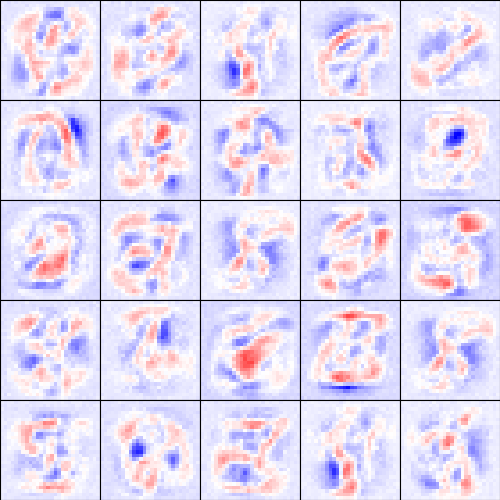
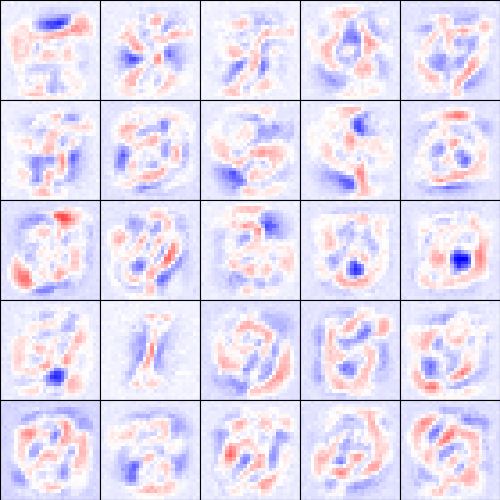
3/5 functions for 4.2 done

diff --git a/lab_4/lab4_code/dbn.py b/lab_4/lab4_code/dbn.py
@@ -63,19 +63,37 @@ class DeepBeliefNet():
         
         n_samples = true_img.shape[0]
         
-        vis = true_img # visible layer gets the image data
+        #vis = true_img # visible layer gets the image data
         
-        lbl = np.ones(true_lbl.shape)/10. # start the net by telling you know nothing about labels        
+        #lbl = np.ones(true_lbl.shape)/10. # start the net by telling you know nothing about labels        
         
         # [TODO TASK 4.2] fix the image data in the visible layer and drive the network bottom to top. In the top RBM, run alternating Gibbs sampling \
         # and read out the labels (replace pass below and 'predicted_lbl' to your predicted labels).
         # NOTE : inferring entire train/test set may require too much compute memory (depends on your system). In that case, divide into mini-batches.
         
-        for _ in range(self.n_gibbs_recog):
+        for start in range(0, n_samples, self.batch_size):
 
-            pass
+            end = min(start + self.batch_size, n_samples)
+            vis = true_img[start:end] # visible layer gets the image data
+            lbl = np.ones((vis.shape[0], self.sizes["lbl"]))/10. # start the net by telling you know nothing about labels
 
-        predicted_lbl = np.zeros(true_lbl.shape)
+            # Drive network bottom to top
+            hid_activations = self.rbm_stack["vis--hid"].get_h_given_v(vis)[0]
+            pen_activations = self.rbm_stack["hid--pen"].get_h_given_v(hid_activations)[0]
+
+            # Alternating Gibbs sampling in the top RBM
+            pen_lbl_concatenated = np.concatenate([pen_activations, lbl], axis=1)
+            for _ in range(self.n_gibbs_recog):
+                # First we sample hidden layer given the visible layer
+                # then we sample the visible layer given the hidden layer
+                top_rbm_h_given_v = self.rbm_stack["pen+lbl--top"].get_h_given_v(pen_lbl_concatenated)[0]
+                top_rmb_v_given_h = self.rbm_stack["pen+lbl--top"].get_v_given_h(top_rbm_h_given_v)[0]
+
+                # Finally we clamp the pen part of the visible layerand update the label part of the visible layer
+                top_rmb_v_given_h[:, :self.sizes["pen"]] = pen_activations
+            
+            # Then we store ther predicted labels
+            predicted_lbl = top_rmb_v_given_h[:, self.sizes["pen"]:]
             
         print ("accuracy = %.2f%%"%(100.*np.mean(np.argmax(predicted_lbl,axis=1)==np.argmax(true_lbl,axis=1))))
         
@@ -101,14 +119,32 @@ class DeepBeliefNet():
 
         # [TODO TASK 4.2] fix the label in the label layer and run alternating Gibbs sampling in the top RBM. From the top RBM, drive the network \ 
         # top to the bottom visible layer (replace 'vis' from random to your generated visible layer).
-            
+
+        # First we initialize the pen layer with random values
+        pen_activations = np.random.rand(n_sample, self.sizes["pen"])
+
+        # Then we concatenate the label and pen activations
+        pen_lbl_concatenated = np.concatenate([pen_activations, lbl], axis=1)
+
+        # Then we run alternating Gibbs sampling in the top RBM
         for _ in range(self.n_gibbs_gener):
 
-            vis = np.random.rand(n_sample,self.sizes["vis"])
+            #vis = np.random.rand(n_sample,self.sizes["vis"])
+
+            # We sample the hidden and visible layers of the top RBM
+            top_rbm_h_given_v = self.rbm_stack["pen+lbl--top"].get_h_given_v(pen_lbl_concatenated)[0]
+            top_rmb_v_given_h = self.rbm_stack["pen+lbl--top"].get_v_given_h(top_rbm_h_given_v)[0]
+            # And clamp the label part of the visisble layer to the true label
+            top_rmb_v_given_h[:, self.sizes["pen"]:] = lbl
+
+            # Then we propagate from top to bottom
+            pen_activations = top_rmb_v_given_h[:, :self.sizes["pen"]]
+            hid_activations = self.rbm_stack["hid--pen"].get_v_given_h(pen_activations)[0]
+            vis_activations = self.rbm_stack["vis--hid"].get_v_given_h(hid_activations)[0]
             
-            records.append( [ ax.imshow(vis.reshape(self.image_size), cmap="bwr", vmin=0, vmax=1, animated=True, interpolation=None) ] )
+            records.append( [ ax.imshow(vis_activations.reshape(self.image_size), cmap="bwr", vmin=0, vmax=1, animated=True, interpolation=None) ] )
             
-        anim = stitch_video(fig,records).save("%s.generate%d.mp4"%(name,np.argmax(true_lbl)))            
+        anim = stitch_video(fig,records).save("%s.generate%d.gif"%(name,np.argmax(true_lbl)))            
             
         return
 
@@ -116,7 +152,7 @@ class DeepBeliefNet():
 
         """
         Greedy layer-wise training by stacking RBMs. This method first tries to load previous saved parameters of the entire RBM stack. 
-        If not found, learns layer-by-layer (which needs to be completed) .
+        If not found, learns layer-by-layer (which needs to be completed).
         Notice that once you stack more layers on top of a RBM, the weights are permanently untwined.
 
         Args:
@@ -143,20 +179,26 @@ class DeepBeliefNet():
             """ 
             CD-1 training for vis--hid 
             """            
+            self.rbm_stack["vis--hid"].cd1(vis_trainset, n_iterations=1000)
             self.savetofile_rbm(loc="trained_rbm",name="vis--hid")
+            vis_hid_activations = self.rbm_stack["vis--hid"].get_h_given_v(vis_trainset)
 
             print ("training hid--pen")
             """ 
             CD-1 training for hid--pen 
             """            
-            self.rbm_stack["vis--hid"].untwine_weights()            
-            self.savetofile_rbm(loc="trained_rbm",name="hid--pen")            
+            self.rbm_stack["vis--hid"].untwine_weights()   
+            self.rbm_stack["hid--pen"].cd1(vis_hid_activations, n_iterations=1000)
+            self.savetofile_rbm(loc="trained_rbm",name="hid--pen")   
+            pen_activations = self.rbm_stack["hid--pen"].get_h_given_v(vis_hid_activations)         
 
             print ("training pen+lbl--top")
             """ 
             CD-1 training for pen+lbl--top 
             """
             self.rbm_stack["hid--pen"].untwine_weights()
+            pen_lbl_concatenated = np.concatenate([pen_activations, lbl_trainset], axis=1)
+            self.rbm_stack["pen+lbl--top"].cd1(pen_lbl_concatenated, n_iterations=1000)
             self.savetofile_rbm(loc="trained_rbm",name="pen+lbl--top")            
 
         return    
